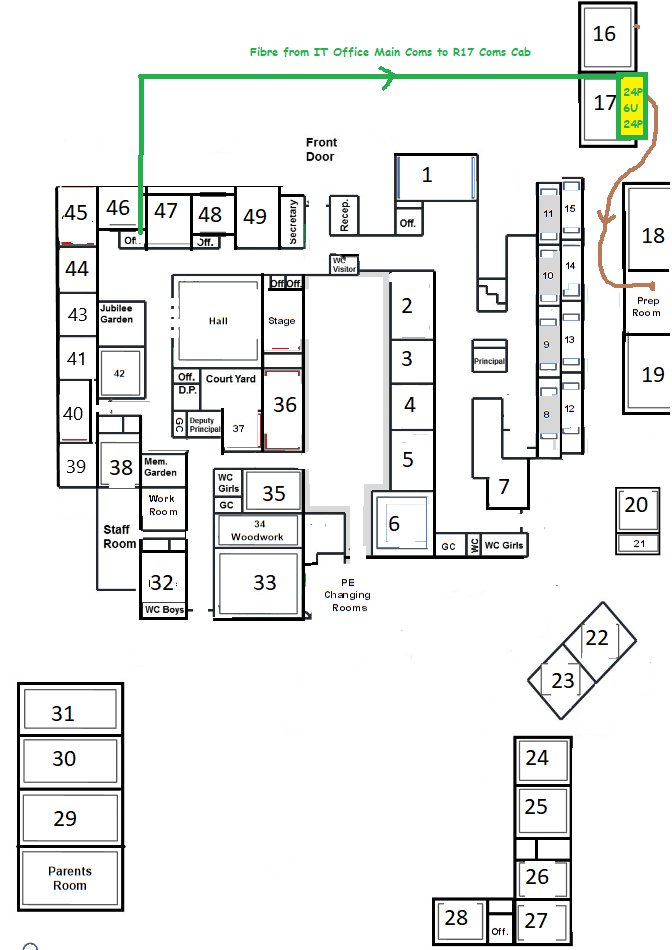
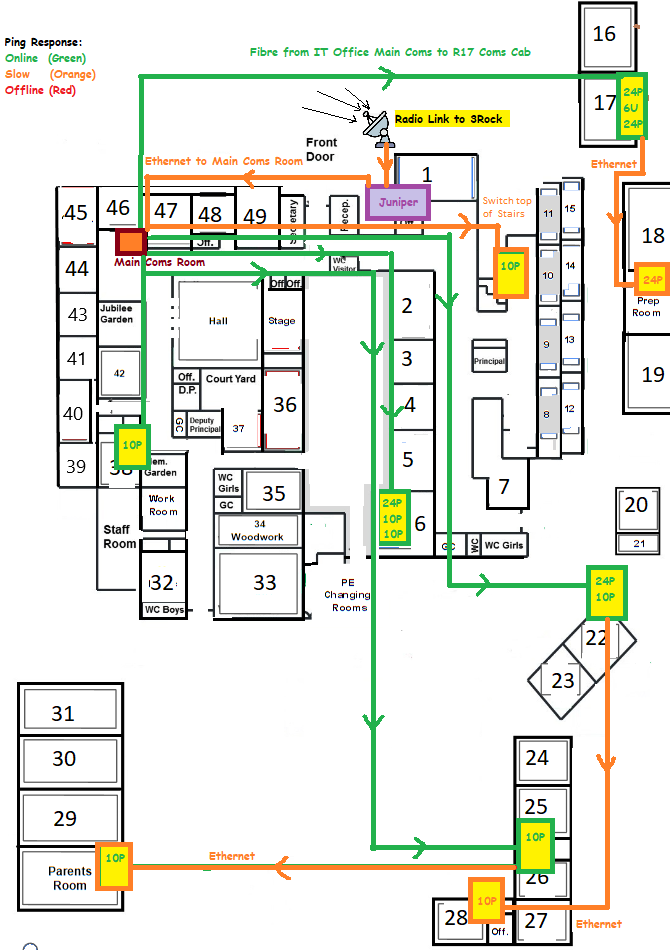
updates

diff --git a/Python Bad Internet Weather Sounds/NewDash/templates/map.html b/Python Bad Internet Weather Sounds/NewDash/templates/map.html
@@ -13,7 +13,7 @@
   <a href="{{ url_for('school_map') }}">Map</a>
 </nav>
 
-<h1>School Map</h1>
+<h1>Live School Map of Network (Ping Response)</h1>
 
 <button id="edit-toggle">Enable Edit Mode</button>
 
@@ -25,19 +25,23 @@
         {% set x = row["MapX"] %}
         {% set y = row["MapY"] %}
         {% set status_rec = latest_status[short_name] %}
-        
+
+        {# Determine color class for text #}
         {% if status_rec["status"] == "OK" %}
             {% set color_class = "status-ok-text" %}
+            {% set emoji = "✅" %}
         {% elif status_rec["status"] == "High Ping" %}
             {% set color_class = "status-high-text" %}
+            {% set emoji = "😟" %}
         {% else %}
             {% set color_class = "status-down-text" %}
+            {% set emoji = "❌" %}
         {% endif %}
-        
+
         <div class="map-label {{ color_class }}"
              data-shortname="{{ short_name }}"
              style="left: {{ x }}px; top: {{ y }}px;">
-            {{ short_name }}
+            {{ short_name }} {{ emoji }}
         </div>
     {% endfor %}
 </div>
@@ -54,11 +58,9 @@ editToggleBtn.addEventListener("click", function() {
     labels.forEach(label => {
         if (editMode) {
             label.classList.add("editable");
-            // Add mousedown listener
             label.addEventListener("mousedown", onMouseDown);
         } else {
             label.classList.remove("editable");
-            // Remove mousedown listener
             label.removeEventListener("mousedown", onMouseDown);
         }
     });
@@ -70,14 +72,11 @@ let offsetY = 0;
 
 function onMouseDown(e) {
     if (!editMode) return;
-    // The label being dragged
     currentDrag = e.target;
-    // offset within the label
     const rect = currentDrag.getBoundingClientRect();
     offsetX = e.clientX - rect.left;
     offsetY = e.clientY - rect.top;
 
-    // Add listeners for mousemove/up on document
     document.addEventListener("mousemove", onMouseMove);
     document.addEventListener("mouseup", onMouseUp);
 }
@@ -87,13 +86,9 @@ function onMouseMove(e) {
     e.preventDefault();
     let containerRect = document.getElementById("map-container").getBoundingClientRect();
 
-    // Compute new position relative to container
     let newLeft = e.clientX - containerRect.left - offsetX;
     let newTop = e.clientY - containerRect.top - offsetY;
 
-    // Keep label within map bounds if desired
-    // For example, clamp to 0..(containerWidth - labelWidth)
-    // but here's a simple approach with no clamping:
     currentDrag.style.left = newLeft + "px";
     currentDrag.style.top = newTop + "px";
 }
@@ -101,7 +96,6 @@ function onMouseMove(e) {
 function onMouseUp(e) {
     if (!editMode || !currentDrag) return;
 
-    // final position
     let newLeft = parseInt(currentDrag.style.left, 10);
     let newTop = parseInt(currentDrag.style.top, 10);
     let shortName = currentDrag.getAttribute("data-shortname");
@@ -124,7 +118,6 @@ function onMouseUp(e) {
         console.error(err);
     });
 
-    // cleanup
     document.removeEventListener("mousemove", onMouseMove);
     document.removeEventListener("mouseup", onMouseUp);
     currentDrag = null;

diff --git a/Python Bad Internet Weather Sounds/NewDash/templates/index.html b/Python Bad Internet Weather Sounds/NewDash/templates/index.html
@@ -32,6 +32,8 @@
                 {% set full_name = row["Full Name"] %}
                 {% set note = row["Note"] %}
                 {% set status_rec = latest_status[short_name] %}
+
+                {# Determine row color #}
                 {% if status_rec["status"] == "OK" %}
                     {% set row_class = "status-ok" %}
                 {% elif status_rec["status"] == "High Ping" %}
@@ -39,10 +41,20 @@
                 {% else %}
                     {% set row_class = "status-down" %}
                 {% endif %}
+
+                {# Determine the emoji #}
+                {% if status_rec["status"] == "OK" %}
+                    {% set emoji = "✅" %}
+                {% elif status_rec["status"] == "High Ping" %}
+                    {% set emoji = "😟" %}
+                {% else %}
+                    {% set emoji = "❌" %}
+                {% endif %}
+
                 <tr class="{{ row_class }}">
                     <td>
                         <div class="tooltip">
-                            {{ short_name }}
+                            {{ short_name }} {{ emoji }}
                             <span class="tooltiptext">
                                 <b>{{ full_name }}</b><br>
                                 {{ note }}

diff --git a/Python Bad Internet Weather Sounds/NewDash/app.py b/Python Bad Internet Weather Sounds/NewDash/app.py
@@ -50,7 +50,8 @@ for col in ["MapX", "MapY"]:
     if col not in targets_df.columns:
         targets_df[col] = 0  # default to 0 if missing
 
-targets_df = targets_df[df_cols]  # Reorder or ensure columns
+# Reorder or ensure columns
+targets_df = targets_df[df_cols]
 
 # Convert MapX/MapY to numeric, ignoring errors
 targets_df["MapX"] = pd.to_numeric(targets_df["MapX"], errors="coerce").fillna(0)
@@ -109,7 +110,6 @@ def update_map_position(short_name, new_x, new_y):
     We update the in-memory DataFrame and rewrite CSV.
     """
     global targets_df
-    # Find the row for short_name
     mask = (targets_df["Short Name"] == short_name)
     if not mask.any():
         return False  # not found, do nothing
@@ -249,4 +249,4 @@ def save_position():
 
 
 if __name__ == "__main__":
-    app.run(host="0.0.0.0", port=5000, debug=True)
+    app.run(host="0.0.0.0", port=5006, debug=True)
